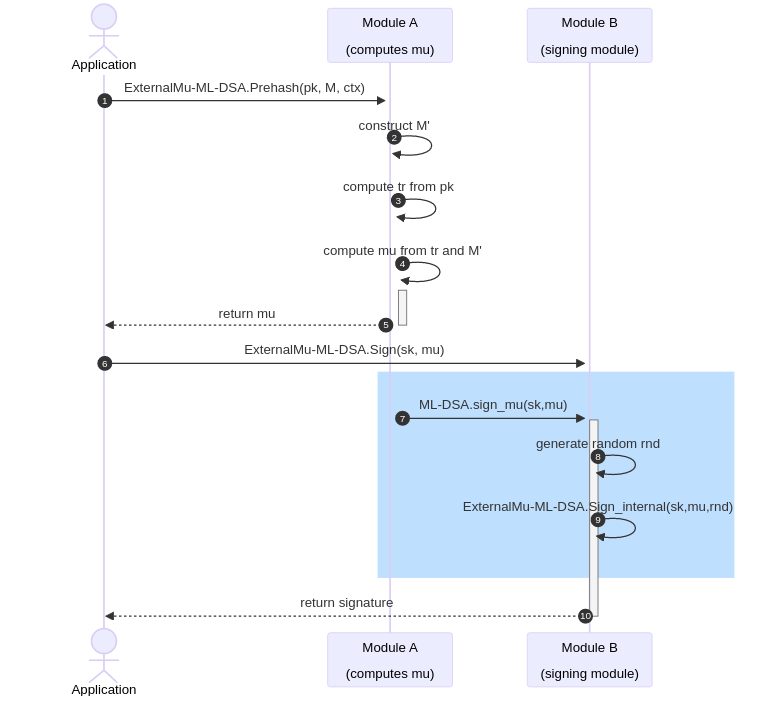
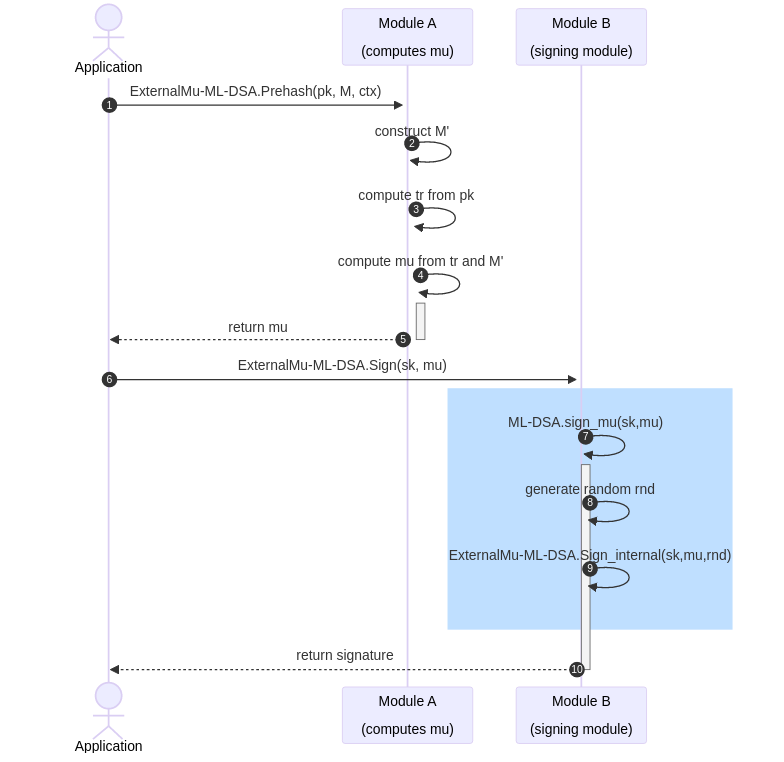
fix link

Changed region(s): [[0.0918, 0.0, 0.949, 1.0]]

diff --git a/ml-dsa-external-mu.html b/ml-dsa-external-mu.html
@@ -96,7 +96,7 @@ externalMu using flow documented in <br />
   Module A--&gt;&gt;-Application: return mu
   Application-&gt;&gt;+Module B: ExternalMu-ML-DSA.Sign(sk, mu)
   rect rgb(191,223,255)
-    Module A-&gt;&gt;+Module B: ML-DSA.sign_mu(sk,mu)
+    Module B-&gt;&gt;+Module B: ML-DSA.sign_mu(sk,mu)
     Module B-&gt;&gt;Module B: generate random rnd
     Module B-&gt;&gt;Module B: ExternalMu-ML-DSA.Sign_internal(sk,mu,rnd)
   end

diff --git a/ml-dsa-external-mu-edit.md b/ml-dsa-external-mu-edit.md
@@ -124,7 +124,7 @@ sequenceDiagram
   Module A-->>-Application: return mu
   Application->>+Module B: ExternalMu-ML-DSA.Sign(sk, mu)
   rect rgb(191,223,255)
-    Module A->>+Module B: ML-DSA.sign_mu(sk,mu)
+    Module B->>+Module B: ML-DSA.sign_mu(sk,mu)
     Module B->>Module B: generate random rnd
     Module B->>Module B: ExternalMu-ML-DSA.Sign_internal(sk,mu,rnd)
   end
